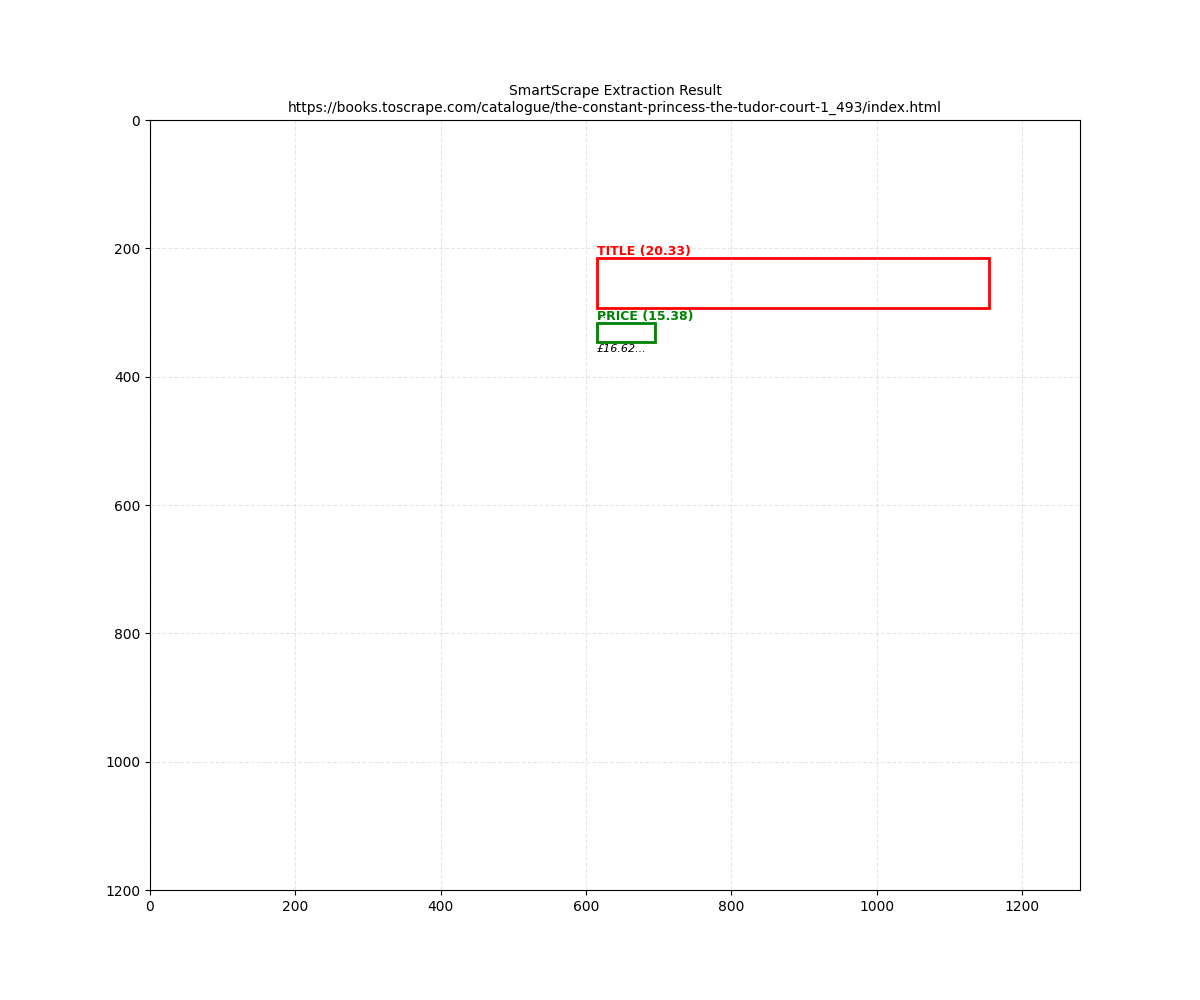
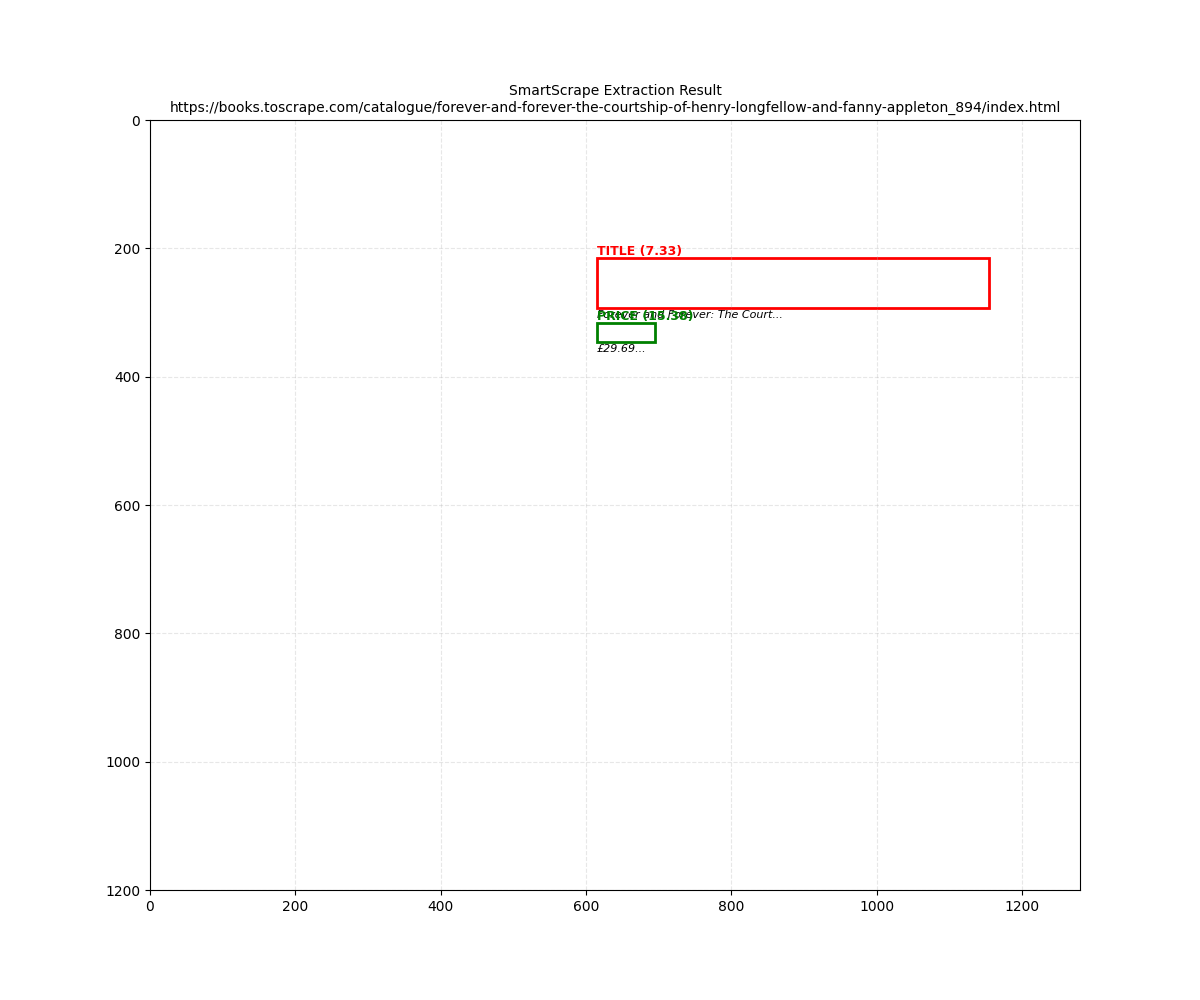
fix

Changed region(s): [[0.1542, 0.093, 0.8633, 0.124], [0.6167, 0.31, 0.6475, 0.341]]

diff --git a/src/pipeline.py b/src/pipeline.py
@@ -1,6 +1,6 @@
 import torch
 import numpy as np
-import re  # Добавили модуль регулярных выражений
+import re
 from src.integration.fitlayout import FitLayoutClient
 from src.learning.graph_builder import FitLayoutParser
 from src.learning.gnn_model import SmartScrapeGNN
@@ -9,105 +9,159 @@ from src.reasoning.solver import ConstraintSolver
 
 class SmartScrapePipeline:
     def __init__(self):
-        # --- ФИКСАЦИЯ RANDOM SEED (ВАЖНО ДЛЯ ДЕМО) ---
-        # Это гарантирует, что "случайные" веса нейросети всегда одинаковы
         torch.manual_seed(42)
         np.random.seed(42)
 
-        # 1. Integration
         self.client = FitLayoutClient()
         self.parser = FitLayoutParser()
-
-        # 2. Learning
         self.classes = ["price", "title", "other"]
         self.model = SmartScrapeGNN(
             input_dim=146, hidden_dim=64, num_classes=len(self.classes)
         )
         self.model.eval()
-
-        # 3. Reasoning
         self.solver = ConstraintSolver(self.classes)
 
     def run(self, url: str):
         print(f"\n=== Processing: {url} ===")
 
-        # A. Получаем данные
         json_data = self.client.get_page_content(url)
-
-        # B. Строим граф
         data, raw_nodes = self.parser.parse(json_data)
         if not data:
             return None
 
-        # C. Нейросеть (Inference)
         with torch.no_grad():
             logits = self.model(data)
             probs = torch.exp(logits).numpy()
 
-        # D. Инъекция Знаний (Structural Priors)
         self._inject_priors(raw_nodes, probs)
 
-        # E. Логический вывод (Solver)
         print("\n[Pipeline] Running Constraint Solver...")
         final_record = self.solver.solve(raw_nodes, probs)
 
+        # --- НОВЫЙ ШАГ: АГРЕГАЦИЯ ФРАГМЕНТОВ ---
+        # Склеиваем разорванный текст (например, H1 на двух строках)
+        final_record = self._aggregate_title(final_record, raw_nodes)
+
         return final_record
+
+    def _aggregate_title(self, record, raw_nodes):
+        """
+        Post-Processing: Visual Text Harvesting.
+        Мы определяем зону H1, а затем собираем ВЕСЬ текст, который попадает в эту зону.
+        Это решает проблему, когда H1 - пустой контейнер, а текст лежит внутри.
+        """
+        if "title" not in record:
+            return record
+
+        # 1. Ищем узлы H1, чтобы определить "Зону Интереса"
+        h1_nodes = [n for n in raw_nodes if n.get("tag", "").lower() == "h1"]
+
+        # Если H1 не найдены, доверяем Solver
+        if not h1_nodes:
+            return record
+
+        # 2. Вычисляем границы Зоны (Bounding Box всех H1)
+        xs = [n["bbox"][0] for n in h1_nodes]
+        ys = [n["bbox"][1] for n in h1_nodes]
+        rights = [n["bbox"][0] + n["bbox"][2] for n in h1_nodes]
+        bottoms = [n["bbox"][1] + n["bbox"][3] for n in h1_nodes]
+
+        zone_x1, zone_y1 = min(xs), min(ys)
+        zone_x2, zone_y2 = max(rights), max(bottoms)
+
+        # 3. "Пылесос": Ищем ЛЮБЫЕ узлы с текстом внутри этой зоны
+        content_nodes = []
+        for n in raw_nodes:
+            txt = n.get("text", "").strip()
+            if len(txt) < 1:
+                continue  # Пропускаем пустышки
+
+            # Проверяем, попадает ли центр узла в Зону H1
+            nx, ny, nw, nh = n["bbox"]
+            center_x = nx + nw / 2
+            center_y = ny + nh / 2
+
+            # Добавляем небольшой допуск (margin), если текст чуть вылезает
+            margin = 5.0
+            if (zone_x1 - margin <= center_x <= zone_x2 + margin) and (
+                zone_y1 - margin <= center_y <= zone_y2 + margin
+            ):
+                content_nodes.append(n)
+
+        # Если мы нашли контент внутри H1, используем его
+        if content_nodes:
+            print(
+                f"[Aggregation] Found {len(content_nodes)} text nodes inside H1 zone. Merging..."
+            )
+
+            # 4. Сортируем (сверху-вниз, слева-направо)
+            content_nodes.sort(key=lambda n: n["bbox"][1] + (n["bbox"][0] / 10000))
+
+            # 5. Склеиваем
+            full_text = " ".join([n["text"].strip() for n in content_nodes])
+
+            # 6. Обновляем результат
+            record["title"]["text"] = full_text
+
+            # Обновляем bbox до общего размера зоны
+            record["title"]["bbox"] = [
+                zone_x1,
+                zone_y1,
+                zone_x2 - zone_x1,
+                zone_y2 - zone_y1,
+            ]
+
+        return record
 
     def _inject_priors(self, raw_nodes, probs):
         """
-        Structural Priors instead of fragile Heuristics.
-        Мы используем фундаментальные свойства веба, а не просто ключевые слова.
+        Logic with H1 boost and empty text filtering.
         """
         for i, node in enumerate(raw_nodes):
             text = node.get("text", "").strip()
-            tag = node.get("tag", "").lower()  # Приводим к нижнему регистру
+            tag = node.get("tag", "").lower()
             bbox = node.get("bbox", [0, 0, 0, 0])
             y_coord = bbox[1]
 
-            # ============================
-            # 1. ЛОГИКА ЗАГОЛОВКА (TITLE)
-            # ============================
+            # Фильтр пустых
+            if len(text) < 1:
+                probs[i][0] = -100.0
+                probs[i][1] = -100.0
+                continue
 
-            # ГЛАВНОЕ ПРАВИЛО: В e-commerce заголовок товара - это почти всегда H1.
+            # TITLE Logic
             if tag == "h1":
-                probs[i][1] += 20.0  # Огромный буст. Это перебивает любой шум.
+                probs[i][1] += 20.0
+            elif y_coord < 400 and 5 < len(text) < 150:
+                probs[i][1] += 5.0
+                if text[0].isupper():
+                    probs[i][1] += 2.0
 
-            # Второстепенное правило: Если H1 не найден, ищем крупный текст вверху
-            elif tag in ["h2", "h3"] and y_coord < 400 and len(text) > 5:
-                probs[i][1] += 2.0
-
-            # Штрафы (Constraints)
-            # Слишком длинный текст - это описание, а не заголовок
             if len(text) > 150:
                 probs[i][1] -= 10.0
-
-            # Хлебные крошки и навигация (обычно списки ul/li)
             if tag in ["li", "ul", "nav"]:
                 probs[i][1] -= 5.0
+            if "home" in text.lower() or "books" in text.lower():
+                probs[i][1] -= 5.0
 
-            # ============================
-            # 2. ЛОГИКА ЦЕНЫ (PRICE)
-            # ============================
+            # PRICE Logic
+            import re
 
-            # Строгий Regex для цены: "Символ валюты" + "Цифры" + "." + "2 цифры"
-            # Например: £51.77, $19.99
-            price_pattern = r"[£$€]\d+\.\d{2}"
+            price_pattern = r"[£$€]?\d+\.\d{2}"
             has_price_pattern = re.search(price_pattern, text)
 
             if has_price_pattern and len(text) < 20:
-                probs[i][0] += 15.0  # Сильный буст
-
-                # Если это "Tax" или "0.00", то это не цена товара
+                probs[i][0] += 15.0
                 if "0.00" in text or "Tax" in text:
                     probs[i][0] -= 20.0
             else:
-                # Если паттерна цены нет, это точно не цена
                 probs[i][0] -= 5.0
 
-            # ============================
-            # 3. ОБЩИЕ ГЕОМЕТРИЧЕСКИЕ ФИЛЬТРЫ
-            # ============================
-
-            # Футер: Всё, что ниже Y=1500 (примерно), вряд ли является главным контентом
-            if y_coord > 1500:
-                probs[i][1] -= 10.0  # Title не может быть в футере
+            # Global Filters
+            if y_coord > 1000:
+                probs[i][1] -= 10.0
+            bad_words = ["stock", "available", "demo", "warning", "fiction"]
+            if any(w in text.lower() for w in bad_words):
+                probs[i][1] -= 20.0
+                if "stock" in text.lower():
+                    probs[i][0] -= 20.0

diff --git a/src/integration/fitlayout.py b/src/integration/fitlayout.py
@@ -117,16 +117,22 @@ class FitLayoutClient:
         try:
             url = f"{self.base_url}/r/{self.repo_id}/artifact/create"
 
-            # строка параметров в том же формате, что ты видишь в fl:creatorParams
-            params_str = (
-                f"url={page_url} "
-                "width=1200 height=800 persist=1 acquireImages=false includeScreenshot=true"
-            )
-
             payload = {
-                "service": service_id,  # например SERVICE_RENDER_ID
-                "params": params_str,
+                "serviceId": service_id,
+                "params": {
+                    "acquireImages": False,
+                    "width": 1200,
+                    "persist": 1,
+                    "includeScreenshot": True,
+                    "height": 800,
+                    "url": page_url,
+                    "startPage": 0,
+                    "zoom": 1,
+                    "endPage": 10,
+                },
             }
+
+            print(payload)
 
             # если у тебя create работает через GET с query-параметрами — можно заменить на params=payload
             response = self.session.post(url, json=payload)

diff --git a/src/visualize.py b/src/visualize.py
@@ -61,7 +61,7 @@ def visualize_result(url, result, output_file="result_viz.png"):
 
 
 if __name__ == "__main__":
-    url = "https://books.toscrape.com/catalogue/the-constant-princess-the-tudor-court-1_493/index.html"
+    url = "https://books.toscrape.com/catalogue/forever-and-forever-the-courtship-of-henry-longfellow-and-fanny-appleton_894/index.html"
 
     # Запускаем пайплайн снова
     pipeline = SmartScrapePipeline()

diff --git a/src/run_demo.py b/src/run_demo.py
@@ -6,7 +6,7 @@ def main():
     pipeline = SmartScrapePipeline()
 
     # URL страницы товара (Books to Scrape)
-    url = "https://books.toscrape.com/catalogue/the-constant-princess-the-tudor-court-1_493/index.html"
+    url = "https://books.toscrape.com/catalogue/forever-and-forever-the-courtship-of-henry-longfellow-and-fanny-appleton_894/index.html"
 
     result = pipeline.run(url)
 
